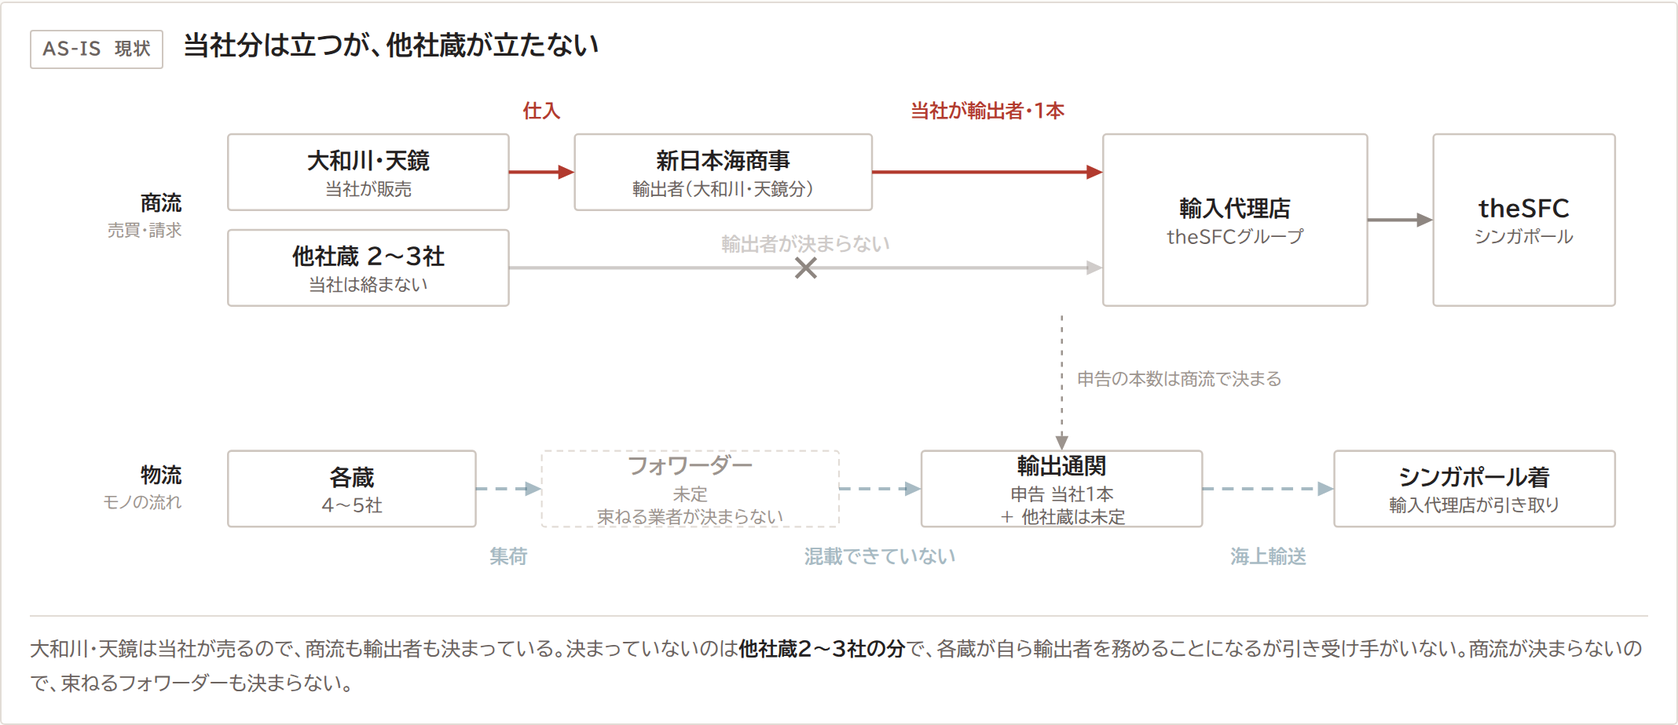
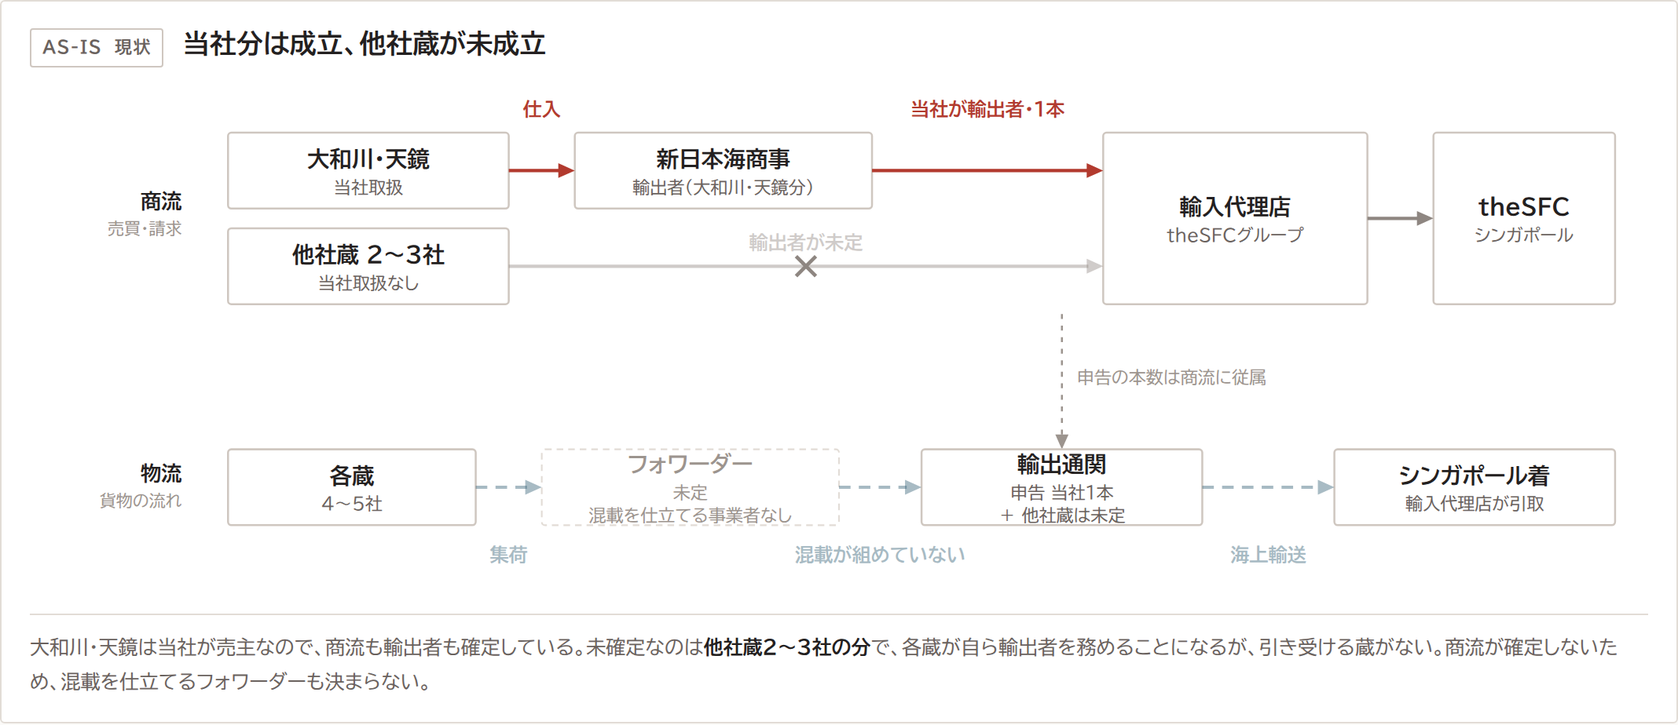
語彙を実務語に修正（束ねる→集約・混載を仕立てる、立つ→成立、入る→介在、決まっていない→未確定 ほか）

diff --git a/_inbox/20260901_DOC_酒類輸出_商流物流フロー.html b/_inbox/20260901_DOC_酒類輸出_商流物流フロー.html
@@ -77,30 +77,30 @@ figcaption b{color:var(--ink);font-weight:700}
   </header>
 
   <div class="legend">
-    <span class="li"><svg class="sw" width="34" height="12" aria-hidden="true"><line x1="0" y1="6" x2="24" y2="6" stroke="var(--shu)" stroke-width="2"/><polygon points="34,6 24,1.5 24,10.5" fill="var(--shu)"/></svg><b>商流：当社が入る</b></span>
-    <span class="li"><svg class="sw" width="34" height="12" aria-hidden="true"><line x1="0" y1="6" x2="24" y2="6" stroke="var(--gry)" stroke-width="2"/><polygon points="34,6 24,1.5 24,10.5" fill="var(--gry)"/></svg><b>商流：当社が入らない</b></span>
+    <span class="li"><svg class="sw" width="34" height="12" aria-hidden="true"><line x1="0" y1="6" x2="24" y2="6" stroke="var(--shu)" stroke-width="2"/><polygon points="34,6 24,1.5 24,10.5" fill="var(--shu)"/></svg><b>商流：当社が介在</b></span>
+    <span class="li"><svg class="sw" width="34" height="12" aria-hidden="true"><line x1="0" y1="6" x2="24" y2="6" stroke="var(--gry)" stroke-width="2"/><polygon points="34,6 24,1.5 24,10.5" fill="var(--gry)"/></svg><b>商流：当社が介在しない</b></span>
     <span class="li"><svg class="sw" width="34" height="12" aria-hidden="true"><line x1="0" y1="6" x2="24" y2="6" stroke="var(--aoi)" stroke-width="2" stroke-dasharray="6 4"/><polygon points="34,6 24,1.5 24,10.5" fill="var(--aoi)"/></svg><b>物流</b></span>
-    <span class="li"><svg class="sw" width="24" height="14" aria-hidden="true"><rect x="1" y="1" width="22" height="12" fill="var(--surface)" stroke="var(--rule)" stroke-dasharray="4 3"/></svg>薄い枠と薄い矢印＝まだ決まっていない</span>
-    <span class="li"><svg class="sw" width="24" height="14" aria-hidden="true"><rect x="1" y="1" width="22" height="12" fill="var(--ink)"/></svg>塗り＝その案で変わるところ</span>
+    <span class="li"><svg class="sw" width="24" height="14" aria-hidden="true"><rect x="1" y="1" width="22" height="12" fill="var(--surface)" stroke="var(--rule)" stroke-dasharray="4 3"/></svg>淡色の枠と矢印＝未確定</span>
+    <span class="li"><svg class="sw" width="24" height="14" aria-hidden="true"><rect x="1" y="1" width="22" height="12" fill="var(--ink)"/></svg>塗り＝その案で変わる箇所</span>
   </div>
 
   <section>
     <div class="sh">
-      <h2>読みA　shipper ＝ 荷主（輸出者）</h2>
-      <p>先方が求めているのは「4〜5蔵を束ねて自ら売り、輸出者になる会社」という読み</p>
+      <h2>解釈A　shipper ＝ 荷主（輸出者）</h2>
+      <p>先方が求めているのは「4〜5蔵の商流を集約し、自ら売主・輸出者となる事業者」という解釈</p>
     </div>
     <figure class="fig">
-    <div class="fh"><span class="tag">AS-IS　現状</span><h3>当社分は立つが、他社蔵が立たない</h3></div>
-    <div class="svgwrap"><svg viewBox="0 0 980 312" role="img" aria-label="商流は当社経由の1本だけが成立し、他社蔵からの商流は輸出者が決まらず未成立。物流も未確定">
+    <div class="fh"><span class="tag">AS-IS　現状</span><h3>当社分は成立、他社蔵が未成立</h3></div>
+    <div class="svgwrap"><svg viewBox="0 0 980 312" role="img" aria-label="商流は当社経由の1本のみ成立し、他社蔵からの商流は輸出者が未定で未成立。物流も未確定">
       <text x="92" y="76" text-anchor="end" class="lane">商流</text><text x="92" y="92" text-anchor="end" class="lane2">売買・請求</text>
-      <text x="92" y="241" text-anchor="end" class="lane">物流</text><text x="92" y="257" text-anchor="end" class="lane2">モノの流れ</text>
-      <line x1="625" y1="140" x2="625" y2="216" stroke="var(--ink-3)" stroke-width="1.2" stroke-dasharray="3 4"/><polygon points="625,222 621,213 629,213" fill="var(--ink-3)"/><text x="634" y="182" class="tie" fill="var(--ink-3)">申告の本数は商流で決まる</text>
+      <text x="92" y="241" text-anchor="end" class="lane">物流</text><text x="92" y="257" text-anchor="end" class="lane2">貨物の流れ</text>
+      <line x1="625" y1="140" x2="625" y2="216" stroke="var(--ink-3)" stroke-width="1.2" stroke-dasharray="3 4"/><polygon points="625,222 621,213 629,213" fill="var(--ink-3)"/><text x="634" y="182" class="tie" fill="var(--ink-3)">申告の本数は商流に従属</text>
       <rect x="120" y="30" width="170" height="46" rx="2" fill="var(--surface)" stroke="var(--rule-2)" stroke-width="1.2"/>
       <text x="205.0" y="51" text-anchor="middle" class="nt" fill="var(--ink)">大和川・天鏡</text>
-      <text x="205.0" y="67" text-anchor="middle" class="ns" fill="var(--ink-2)">当社が販売</text>
+      <text x="205.0" y="67" text-anchor="middle" class="ns" fill="var(--ink-2)">当社取扱</text>
       <rect x="120" y="88" width="170" height="46" rx="2" fill="var(--surface)" stroke="var(--rule-2)" stroke-width="1.2"/>
       <text x="205.0" y="109" text-anchor="middle" class="nt" fill="var(--ink)">他社蔵 2〜3社</text>
-      <text x="205.0" y="125" text-anchor="middle" class="ns" fill="var(--ink-2)">当社は絡まない</text>
+      <text x="205.0" y="125" text-anchor="middle" class="ns" fill="var(--ink-2)">当社取扱なし</text>
       <rect x="330" y="30" width="180" height="46" rx="2" fill="var(--surface)" stroke="var(--rule-2)" stroke-width="1.2"/>
       <text x="420.0" y="51" text-anchor="middle" class="nt" fill="var(--ink)">新日本海商事</text>
       <text x="420.0" y="67" text-anchor="middle" class="ns" fill="var(--ink-2)">輸出者（大和川・天鏡分）</text>
@@ -119,7 +119,7 @@ figcaption b{color:var(--ink);font-weight:700}
       <line x1="290" y1="111" x2="641" y2="111" stroke="var(--gry)" stroke-width="2" opacity="0.42"/>
       <polygon points="650,111 640,106.5 640,115.5" fill="var(--gry)" opacity="0.42"/>
       <g stroke="var(--gry)" stroke-width="2.2"><line x1="464.0" y1="105" x2="476.0" y2="117"/><line x1="464.0" y1="117" x2="476.0" y2="105"/></g>
-      <text x="470.0" y="101" text-anchor="middle" class="al" fill="var(--gry)" opacity="0.42">輸出者が決まらない</text>
+      <text x="470.0" y="101" text-anchor="middle" class="al" fill="var(--gry)" opacity="0.42">輸出者が未定</text>
       <line x1="810" y1="82" x2="841" y2="82" stroke="var(--gry)" stroke-width="2"/>
       <polygon points="850,82 840,77.5 840,86.5" fill="var(--gry)"/>
       <rect x="120" y="222" width="150" height="46" rx="2" fill="var(--surface)" stroke="var(--rule-2)" stroke-width="1.2"/>
@@ -128,38 +128,38 @@ figcaption b{color:var(--ink);font-weight:700}
       <rect x="310" y="222" width="180" height="46" rx="2" fill="var(--surface)" stroke="var(--rule)" stroke-width="1" stroke-dasharray="4 3"/>
       <text x="400.0" y="236" text-anchor="middle" class="nt" fill="var(--ink-3)">フォワーダー</text>
       <text x="400.0" y="252" text-anchor="middle" class="ns" fill="var(--ink-3)">未定</text>
-      <text x="400.0" y="266" text-anchor="middle" class="ns" fill="var(--ink-3)">束ねる業者が決まらない</text>
+      <text x="400.0" y="266" text-anchor="middle" class="ns" fill="var(--ink-3)">混載を仕立てる事業者なし</text>
       <rect x="540" y="222" width="170" height="46" rx="2" fill="var(--surface)" stroke="var(--rule-2)" stroke-width="1.2"/>
       <text x="625.0" y="236" text-anchor="middle" class="nt" fill="var(--ink)">輸出通関</text>
       <text x="625.0" y="252" text-anchor="middle" class="ns" fill="var(--ink-2)">申告 当社1本</text>
       <text x="625.0" y="266" text-anchor="middle" class="ns" fill="var(--ink-2)">＋ 他社蔵は未定</text>
       <rect x="790" y="222" width="170" height="46" rx="2" fill="var(--surface)" stroke="var(--rule-2)" stroke-width="1.2"/>
       <text x="875.0" y="243" text-anchor="middle" class="nt" fill="var(--ink)">シンガポール着</text>
-      <text x="875.0" y="259" text-anchor="middle" class="ns" fill="var(--ink-2)">輸入代理店が引き取り</text>
+      <text x="875.0" y="259" text-anchor="middle" class="ns" fill="var(--ink-2)">輸入代理店が引取</text>
       <line x1="270" y1="245" x2="301" y2="245" stroke="var(--aoi)" stroke-width="2" stroke-dasharray="7 5" opacity="0.42"/>
       <polygon points="310,245 300,240.5 300,249.5" fill="var(--aoi)" opacity="0.42"/>
       <text x="290.0" y="290" text-anchor="middle" class="al" fill="var(--aoi)" opacity="0.42">集荷</text>
       <line x1="490" y1="245" x2="531" y2="245" stroke="var(--aoi)" stroke-width="2" stroke-dasharray="7 5" opacity="0.42"/>
       <polygon points="540,245 530,240.5 530,249.5" fill="var(--aoi)" opacity="0.42"/>
-      <text x="515.0" y="290" text-anchor="middle" class="al" fill="var(--aoi)" opacity="0.42">混載できていない</text>
+      <text x="515.0" y="290" text-anchor="middle" class="al" fill="var(--aoi)" opacity="0.42">混載が組めていない</text>
       <line x1="710" y1="245" x2="781" y2="245" stroke="var(--aoi)" stroke-width="2" stroke-dasharray="7 5" opacity="0.42"/>
       <polygon points="790,245 780,240.5 780,249.5" fill="var(--aoi)" opacity="0.42"/>
       <text x="750.0" y="290" text-anchor="middle" class="al" fill="var(--aoi)" opacity="0.42">海上輸送</text>
     </svg></div>
-    <figcaption>大和川・天鏡は当社が売るので、商流も輸出者も決まっている。決まっていないのは<b>他社蔵2〜3社の分</b>で、各蔵が自ら輸出者を務めることになるが引き受け手がいない。商流が決まらないので、束ねるフォワーダーも決まらない。</figcaption>
+    <figcaption>大和川・天鏡は当社が売主なので、商流も輸出者も確定している。未確定なのは<b>他社蔵2〜3社の分</b>で、各蔵が自ら輸出者を務めることになるが、引き受ける蔵がない。商流が確定しないため、混載を仕立てるフォワーダーも決まらない。</figcaption>
   </figure>
     <figure class="fig">
-    <div class="fh"><span class="tag">TO-BE　読みAへの答え</span><h3>当社が4〜5蔵すべてを束ねる</h3></div>
-    <div class="svgwrap"><svg viewBox="0 0 980 312" role="img" aria-label="全ての蔵が新日本海商事を経由し、商流1本・輸出申告1本にまとまる">
+    <div class="fh"><span class="tag">TO-BE　解釈Aへの対応</span><h3>当社が4〜5蔵の商流を集約する</h3></div>
+    <div class="svgwrap"><svg viewBox="0 0 980 312" role="img" aria-label="全ての蔵が新日本海商事を経由し、商流1本・輸出申告1本に集約される">
       <text x="92" y="76" text-anchor="end" class="lane">商流</text><text x="92" y="92" text-anchor="end" class="lane2">売買・請求</text>
-      <text x="92" y="241" text-anchor="end" class="lane">物流</text><text x="92" y="257" text-anchor="end" class="lane2">モノの流れ</text>
-      <line x1="625" y1="140" x2="625" y2="216" stroke="var(--ink-3)" stroke-width="1.2" stroke-dasharray="3 4"/><polygon points="625,222 621,213 629,213" fill="var(--ink-3)"/><text x="634" y="182" class="tie" fill="var(--ink-3)">申告の本数は商流で決まる</text>
+      <text x="92" y="241" text-anchor="end" class="lane">物流</text><text x="92" y="257" text-anchor="end" class="lane2">貨物の流れ</text>
+      <line x1="625" y1="140" x2="625" y2="216" stroke="var(--ink-3)" stroke-width="1.2" stroke-dasharray="3 4"/><polygon points="625,222 621,213 629,213" fill="var(--ink-3)"/><text x="634" y="182" class="tie" fill="var(--ink-3)">申告の本数は商流に従属</text>
       <rect x="120" y="30" width="170" height="46" rx="2" fill="var(--surface)" stroke="var(--rule-2)" stroke-width="1.2"/>
       <text x="205.0" y="51" text-anchor="middle" class="nt" fill="var(--ink)">大和川・天鏡</text>
-      <text x="205.0" y="67" text-anchor="middle" class="ns" fill="var(--ink-2)">当社が販売</text>
+      <text x="205.0" y="67" text-anchor="middle" class="ns" fill="var(--ink-2)">当社取扱</text>
       <rect x="120" y="88" width="170" height="46" rx="2" fill="var(--surface)" stroke="var(--rule-2)" stroke-width="1.2"/>
       <text x="205.0" y="109" text-anchor="middle" class="nt" fill="var(--ink)">他社蔵 2〜3社</text>
-      <text x="205.0" y="125" text-anchor="middle" class="ns" fill="var(--ink-2)">当社が買い取る</text>
+      <text x="205.0" y="125" text-anchor="middle" class="ns" fill="var(--ink-2)">当社が仕入れる</text>
       <rect x="330" y="30" width="180" height="104" rx="2" fill="var(--ink)" stroke="var(--ink)" stroke-width="1"/>
       <text x="420.0" y="73" text-anchor="middle" class="nt" fill="var(--paper)">新日本海商事</text>
       <text x="420.0" y="89" text-anchor="middle" class="ns" fill="var(--paper-2)">輸出者・売主</text>
@@ -178,7 +178,7 @@ figcaption b{color:var(--ink);font-weight:700}
       <text x="310.0" y="101" text-anchor="middle" class="al" fill="var(--shu)">仕入</text>
       <line x1="510" y1="82" x2="641" y2="82" stroke="var(--shu)" stroke-width="2"/>
       <polygon points="650,82 640,77.5 640,86.5" fill="var(--shu)"/>
-      <text x="580.0" y="72" text-anchor="middle" class="al" fill="var(--shu)">1本にまとまる</text>
+      <text x="580.0" y="72" text-anchor="middle" class="al" fill="var(--shu)">商流1本に集約</text>
       <line x1="810" y1="82" x2="841" y2="82" stroke="var(--gry)" stroke-width="2"/>
       <polygon points="850,82 840,77.5 840,86.5" fill="var(--gry)"/>
       <rect x="120" y="222" width="150" height="46" rx="2" fill="var(--surface)" stroke="var(--rule-2)" stroke-width="1.2"/>
@@ -193,7 +193,7 @@ figcaption b{color:var(--ink);font-weight:700}
       <text x="625.0" y="259" text-anchor="middle" class="ns" fill="var(--paper-2)">申告 1本</text>
       <rect x="790" y="222" width="170" height="46" rx="2" fill="var(--surface)" stroke="var(--rule-2)" stroke-width="1.2"/>
       <text x="875.0" y="243" text-anchor="middle" class="nt" fill="var(--ink)">シンガポール着</text>
-      <text x="875.0" y="259" text-anchor="middle" class="ns" fill="var(--ink-2)">輸入代理店が引き取り</text>
+      <text x="875.0" y="259" text-anchor="middle" class="ns" fill="var(--ink-2)">輸入代理店が引取</text>
       <line x1="270" y1="245" x2="301" y2="245" stroke="var(--aoi)" stroke-width="2" stroke-dasharray="7 5"/>
       <polygon points="310,245 300,240.5 300,249.5" fill="var(--aoi)"/>
       <text x="290.0" y="290" text-anchor="middle" class="al" fill="var(--aoi)">集荷</text>
@@ -204,27 +204,27 @@ figcaption b{color:var(--ink);font-weight:700}
       <polygon points="790,245 780,240.5 780,249.5" fill="var(--aoi)"/>
       <text x="750.0" y="290" text-anchor="middle" class="al" fill="var(--aoi)">海上輸送</text>
     </svg></div>
-    <figcaption>他社蔵の分も当社が仕入れて売る。<b>商流が1本になり、輸出申告も1本になる。</b>先方が求める「束ねる輸出者」を当社が務める形。当社は他社蔵の仕入口座と与信を持つことになる。</figcaption>
+    <figcaption>他社蔵の分も当社が仕入れて売る。<b>商流が1本に集約され、輸出申告も1本になる。</b>先方が求める「商流を集約する輸出者」を当社が務める形。当社は他社蔵との仕入口座の開設と与信を負う。</figcaption>
   </figure>
   </section>
 
   <section>
     <div class="sh">
-      <h2>読みB　shipper ＝ フォワーダー（物流手配者）</h2>
-      <p>先方が求めているのは「4〜5蔵から集荷して混載し、輸出通関を代行する物流会社」という読み</p>
+      <h2>解釈B　shipper ＝ フォワーダー（物流手配者）</h2>
+      <p>先方が求めているのは「4〜5蔵から集荷して混載を仕立て、輸出通関を代行する物流事業者」という解釈</p>
     </div>
     <figure class="fig">
-    <div class="fh"><span class="tag">AS-IS　現状</span><h3>商流は立つが、運賃が高い</h3></div>
-    <div class="svgwrap"><svg viewBox="0 0 980 312" role="img" aria-label="商流は当社経由と他社蔵直の2系統が成立。物流は高い1社しか選択肢がない">
+    <div class="fh"><span class="tag">AS-IS　現状</span><h3>商流は成立、運賃が高止まり</h3></div>
+    <div class="svgwrap"><svg viewBox="0 0 980 312" role="img" aria-label="商流は当社経由と他社蔵直の2系統が成立。物流は高値の1社しか選択肢がない">
       <text x="92" y="76" text-anchor="end" class="lane">商流</text><text x="92" y="92" text-anchor="end" class="lane2">売買・請求</text>
-      <text x="92" y="241" text-anchor="end" class="lane">物流</text><text x="92" y="257" text-anchor="end" class="lane2">モノの流れ</text>
-      <line x1="625" y1="140" x2="625" y2="216" stroke="var(--ink-3)" stroke-width="1.2" stroke-dasharray="3 4"/><polygon points="625,222 621,213 629,213" fill="var(--ink-3)"/><text x="634" y="182" class="tie" fill="var(--ink-3)">申告の本数は商流で決まる</text>
+      <text x="92" y="241" text-anchor="end" class="lane">物流</text><text x="92" y="257" text-anchor="end" class="lane2">貨物の流れ</text>
+      <line x1="625" y1="140" x2="625" y2="216" stroke="var(--ink-3)" stroke-width="1.2" stroke-dasharray="3 4"/><polygon points="625,222 621,213 629,213" fill="var(--ink-3)"/><text x="634" y="182" class="tie" fill="var(--ink-3)">申告の本数は商流に従属</text>
       <rect x="120" y="30" width="170" height="46" rx="2" fill="var(--surface)" stroke="var(--rule-2)" stroke-width="1.2"/>
       <text x="205.0" y="51" text-anchor="middle" class="nt" fill="var(--ink)">大和川・天鏡</text>
-      <text x="205.0" y="67" text-anchor="middle" class="ns" fill="var(--ink-2)">当社が販売</text>
+      <text x="205.0" y="67" text-anchor="middle" class="ns" fill="var(--ink-2)">当社取扱</text>
       <rect x="120" y="88" width="170" height="46" rx="2" fill="var(--surface)" stroke="var(--rule-2)" stroke-width="1.2"/>
       <text x="205.0" y="109" text-anchor="middle" class="nt" fill="var(--ink)">他社蔵 2〜3社</text>
-      <text x="205.0" y="125" text-anchor="middle" class="ns" fill="var(--ink-2)">当社は絡まない</text>
+      <text x="205.0" y="125" text-anchor="middle" class="ns" fill="var(--ink-2)">当社取扱なし</text>
       <rect x="330" y="30" width="180" height="46" rx="2" fill="var(--surface)" stroke="var(--rule-2)" stroke-width="1.2"/>
       <text x="420.0" y="51" text-anchor="middle" class="nt" fill="var(--ink)">新日本海商事</text>
       <text x="420.0" y="67" text-anchor="middle" class="ns" fill="var(--ink-2)">輸出者（大和川・天鏡分）</text>
@@ -251,38 +251,38 @@ figcaption b{color:var(--ink);font-weight:700}
       <rect x="310" y="222" width="180" height="46" rx="2" fill="var(--surface)" stroke="var(--rule-2)" stroke-width="1.2"/>
       <text x="400.0" y="236" text-anchor="middle" class="nt" fill="var(--ink)">フォワーダー</text>
       <text x="400.0" y="252" text-anchor="middle" class="ns" fill="var(--ink-2)">定温リーファー定期便</text>
-      <text x="400.0" y="266" text-anchor="middle" class="ns" fill="var(--ink-2)">1社のみ・高い</text>
+      <text x="400.0" y="266" text-anchor="middle" class="ns" fill="var(--ink-2)">1社のみ・運賃高</text>
       <rect x="540" y="222" width="170" height="46" rx="2" fill="var(--surface)" stroke="var(--rule-2)" stroke-width="1.2"/>
       <text x="625.0" y="236" text-anchor="middle" class="nt" fill="var(--ink)">輸出通関</text>
       <text x="625.0" y="252" text-anchor="middle" class="ns" fill="var(--ink-2)">申告 当社1本</text>
       <text x="625.0" y="266" text-anchor="middle" class="ns" fill="var(--ink-2)">＋ 各蔵2〜3本</text>
       <rect x="790" y="222" width="170" height="46" rx="2" fill="var(--surface)" stroke="var(--rule-2)" stroke-width="1.2"/>
       <text x="875.0" y="243" text-anchor="middle" class="nt" fill="var(--ink)">シンガポール着</text>
-      <text x="875.0" y="259" text-anchor="middle" class="ns" fill="var(--ink-2)">輸入代理店が引き取り</text>
+      <text x="875.0" y="259" text-anchor="middle" class="ns" fill="var(--ink-2)">輸入代理店が引取</text>
       <line x1="270" y1="245" x2="301" y2="245" stroke="var(--aoi)" stroke-width="2" stroke-dasharray="7 5"/>
       <polygon points="310,245 300,240.5 300,249.5" fill="var(--aoi)"/>
       <text x="290.0" y="290" text-anchor="middle" class="al" fill="var(--aoi)">集荷</text>
       <line x1="490" y1="245" x2="531" y2="245" stroke="var(--aoi)" stroke-width="2" stroke-dasharray="7 5"/>
       <polygon points="540,245 530,240.5 530,249.5" fill="var(--aoi)"/>
-      <text x="515.0" y="290" text-anchor="middle" class="al" fill="var(--aoi)">混載はできる</text>
+      <text x="515.0" y="290" text-anchor="middle" class="al" fill="var(--aoi)">混載は可能</text>
       <line x1="710" y1="245" x2="781" y2="245" stroke="var(--aoi)" stroke-width="2" stroke-dasharray="7 5"/>
       <polygon points="790,245 780,240.5 780,249.5" fill="var(--aoi)"/>
       <text x="750.0" y="290" text-anchor="middle" class="al" fill="var(--aoi)">海上輸送</text>
     </svg></div>
-    <figcaption>大和川・天鏡は当社経由、他社蔵はtheSFCへ直。<b>商流はどちらも成立しうる。</b>詰まっているのは物流で、手が挙がるのが定温リーファー定期便を持つ1社だけ。その見積が高い。</figcaption>
+    <figcaption>大和川・天鏡は当社経由、他社蔵はtheSFCへ直。<b>商流はいずれも成立しうる。</b>停滞しているのは物流で、応じる事業者が定温リーファー定期便を持つ1社のみ。提示された運賃が高い。</figcaption>
   </figure>
     <figure class="fig">
-    <div class="fh"><span class="tag">TO-BE　読みBへの答え</span><h3>物流だけ束ね直す</h3></div>
-    <div class="svgwrap"><svg viewBox="0 0 980 312" role="img" aria-label="商流はAS-ISと同じまま、フォワーダーだけが入れ替わる。輸出申告の本数は変わらない">
+    <div class="fh"><span class="tag">TO-BE　解釈Bへの対応</span><h3>物流のみ再編する</h3></div>
+    <div class="svgwrap"><svg viewBox="0 0 980 312" role="img" aria-label="商流はAS-ISと同一のまま、フォワーダーのみが交代する。輸出申告の本数は不変">
       <text x="92" y="76" text-anchor="end" class="lane">商流</text><text x="92" y="92" text-anchor="end" class="lane2">売買・請求</text>
-      <text x="92" y="241" text-anchor="end" class="lane">物流</text><text x="92" y="257" text-anchor="end" class="lane2">モノの流れ</text>
-      <line x1="625" y1="140" x2="625" y2="216" stroke="var(--ink-3)" stroke-width="1.2" stroke-dasharray="3 4"/><polygon points="625,222 621,213 629,213" fill="var(--ink-3)"/><text x="634" y="182" class="tie" fill="var(--ink-3)">申告の本数は商流で決まる</text>
+      <text x="92" y="241" text-anchor="end" class="lane">物流</text><text x="92" y="257" text-anchor="end" class="lane2">貨物の流れ</text>
+      <line x1="625" y1="140" x2="625" y2="216" stroke="var(--ink-3)" stroke-width="1.2" stroke-dasharray="3 4"/><polygon points="625,222 621,213 629,213" fill="var(--ink-3)"/><text x="634" y="182" class="tie" fill="var(--ink-3)">申告の本数は商流に従属</text>
       <rect x="120" y="30" width="170" height="46" rx="2" fill="var(--surface)" stroke="var(--rule-2)" stroke-width="1.2"/>
       <text x="205.0" y="51" text-anchor="middle" class="nt" fill="var(--ink)">大和川・天鏡</text>
-      <text x="205.0" y="67" text-anchor="middle" class="ns" fill="var(--ink-2)">当社が販売</text>
+      <text x="205.0" y="67" text-anchor="middle" class="ns" fill="var(--ink-2)">当社取扱</text>
       <rect x="120" y="88" width="170" height="46" rx="2" fill="var(--surface)" stroke="var(--rule-2)" stroke-width="1.2"/>
       <text x="205.0" y="109" text-anchor="middle" class="nt" fill="var(--ink)">他社蔵 2〜3社</text>
-      <text x="205.0" y="125" text-anchor="middle" class="ns" fill="var(--ink-2)">当社は絡まない</text>
+      <text x="205.0" y="125" text-anchor="middle" class="ns" fill="var(--ink-2)">当社取扱なし</text>
       <rect x="330" y="30" width="180" height="46" rx="2" fill="var(--surface)" stroke="var(--rule-2)" stroke-width="1.2"/>
       <text x="420.0" y="51" text-anchor="middle" class="nt" fill="var(--ink)">新日本海商事</text>
       <text x="420.0" y="67" text-anchor="middle" class="ns" fill="var(--ink-2)">輸出者（大和川・天鏡分）</text>
@@ -308,15 +308,15 @@ figcaption b{color:var(--ink);font-weight:700}
       <text x="195.0" y="259" text-anchor="middle" class="ns" fill="var(--ink-2)">4〜5社</text>
       <rect x="310" y="222" width="180" height="46" rx="2" fill="var(--ink)" stroke="var(--ink)" stroke-width="1"/>
       <text x="400.0" y="236" text-anchor="middle" class="nt" fill="var(--paper)">フォワーダー</text>
-      <text x="400.0" y="252" text-anchor="middle" class="ns" fill="var(--paper-2)">相見積で選び直す</text>
+      <text x="400.0" y="252" text-anchor="middle" class="ns" fill="var(--paper-2)">相見積で再選定</text>
       <text x="400.0" y="266" text-anchor="middle" class="ns" fill="var(--paper-2)">1コンテナ</text>
       <rect x="540" y="222" width="170" height="46" rx="2" fill="var(--surface)" stroke="var(--rule-2)" stroke-width="1.2"/>
       <text x="625.0" y="236" text-anchor="middle" class="nt" fill="var(--ink)">輸出通関</text>
       <text x="625.0" y="252" text-anchor="middle" class="ns" fill="var(--ink-2)">申告 当社1本</text>
-      <text x="625.0" y="266" text-anchor="middle" class="ns" fill="var(--ink-2)">＋ 各蔵2〜3本（変わらず）</text>
+      <text x="625.0" y="266" text-anchor="middle" class="ns" fill="var(--ink-2)">＋ 各蔵2〜3本（不変）</text>
       <rect x="790" y="222" width="170" height="46" rx="2" fill="var(--surface)" stroke="var(--rule-2)" stroke-width="1.2"/>
       <text x="875.0" y="243" text-anchor="middle" class="nt" fill="var(--ink)">シンガポール着</text>
-      <text x="875.0" y="259" text-anchor="middle" class="ns" fill="var(--ink-2)">輸入代理店が引き取り</text>
+      <text x="875.0" y="259" text-anchor="middle" class="ns" fill="var(--ink-2)">輸入代理店が引取</text>
       <line x1="270" y1="245" x2="301" y2="245" stroke="var(--aoi)" stroke-width="2" stroke-dasharray="7 5"/>
       <polygon points="310,245 300,240.5 300,249.5" fill="var(--aoi)"/>
       <text x="290.0" y="290" text-anchor="middle" class="al" fill="var(--aoi)">集荷</text>
@@ -327,9 +327,9 @@ figcaption b{color:var(--ink);font-weight:700}
       <polygon points="790,245 780,240.5 780,249.5" fill="var(--aoi)"/>
       <text x="750.0" y="290" text-anchor="middle" class="al" fill="var(--aoi)">海上輸送</text>
     </svg></div>
-    <figcaption>商流はAS-ISのまま動かさず、相見積で選び直したフォワーダーが集荷・混載する。運賃は下がるが、<b>商流が分かれている以上、輸出申告は当社1本＋各蔵2〜3本のまま残る。</b></figcaption>
+    <figcaption>商流はAS-ISのまま維持し、相見積で再選定したフォワーダーが集荷・混載を担う。運賃は下がるが、<b>商流が分かれている以上、輸出申告は当社1本＋各蔵2〜3本のまま残る。</b></figcaption>
   </figure>
   </section>
 
-  <p class="close"><b>2つの読みの違いは、当社が何を背負うか。</b>　読みAなら、当社が大和川・天鏡で既にやっていることを他社蔵まで広げる話になり、仕入口座と与信を新たに持つ。読みBなら当社が新たに背負うものはないが、蔵側の輸出者負担は残ったままになる。<b>どちらの読みかは「各蔵への商品代金を誰が払う想定か」を聞けば1問で確定する。</b></p>
+  <p class="close"><b>2つの解釈の差は、当社が何を負うかにある。</b>　解釈Aなら、当社が大和川・天鏡で既に担っている役割を他社蔵まで拡張することになり、仕入口座の開設と与信を新たに負う。解釈Bなら当社が新たに負うものはないが、蔵側の輸出者負担は残る。<b>どちらの解釈かは「各蔵への商品代金を誰が支払う想定か」の1問で確定する。</b></p>
 </div>

diff --git a/_inbox/20260901_CODE_酒類輸出_商流物流フロー生成.py b/_inbox/20260901_CODE_酒類輸出_商流物流フロー生成.py
@@ -54,14 +54,14 @@ def figure(sc):
     p.append(f'<text x="{GUT}" y="76" text-anchor="end" class="lane">商流</text>'
              f'<text x="{GUT}" y="92" text-anchor="end" class="lane2">売買・請求</text>')
     p.append(f'<text x="{GUT}" y="241" text-anchor="end" class="lane">物流</text>'
-             f'<text x="{GUT}" y="257" text-anchor="end" class="lane2">モノの流れ</text>')
+             f'<text x="{GUT}" y="257" text-anchor="end" class="lane2">貨物の流れ</text>')
     # tie: declaration count follows the commercial flow
     p.append('<line x1="625" y1="140" x2="625" y2="216" stroke="var(--ink-3)" stroke-width="1.2" stroke-dasharray="3 4"/>'
              '<polygon points="625,222 621,213 629,213" fill="var(--ink-3)"/>'
-             '<text x="634" y="182" class="tie" fill="var(--ink-3)">申告の本数は商流で決まる</text>')
+             '<text x="634" y="182" class="tie" fill="var(--ink-3)">申告の本数は商流に従属</text>')
     # commercial lane
     snj = S_SNJ_FULL if sc["snj_full"] else S_SNJ_HALF
-    p.append(box(S_K1, "大和川・天鏡", ["当社が販売"]))
+    p.append(box(S_K1, "大和川・天鏡", ["当社取扱"]))
     p.append(box(S_K2, "他社蔵 2〜3社", [sc["k2sub"]]))
     p.append(box(snj, "新日本海商事", sc["snj"], sc.get("snj_tone", "plain")))
     p.append(box(S_AG, "輸入代理店", ["theSFCグループ"]))
@@ -80,7 +80,7 @@ def figure(sc):
     p.append(box(B_KURA, "各蔵", ["4〜5社"]))
     p.append(box(B_FW, "フォワーダー", sc["fw"], sc.get("fw_tone", "plain")))
     p.append(box(B_CUS, "輸出通関", sc["cus"], sc.get("cus_tone", "plain")))
-    p.append(box(B_SFC, "シンガポール着", ["輸入代理店が引き取り"]))
+    p.append(box(B_SFC, "シンガポール着", ["輸入代理店が引取"]))
     f = sc.get("but_faint", False)
     p.append(arrow(270, 310, 245, AOI, dash=True, faint=f, label="集荷", ly=290))
     p.append(arrow(490, 540, 245, AOI, dash=True, faint=f, label=sc["but_label"], ly=290))
@@ -88,25 +88,25 @@ def figure(sc):
     return "\n      ".join(p)
 
 SC = {
-"a_asis": dict(snj_full=False, k2sub="当社は絡まない",
+"a_asis": dict(snj_full=False, k2sub="当社取扱なし",
   snj=["輸出者（大和川・天鏡分）"], shu_label="当社が輸出者・1本",
-  gry_label="輸出者が決まらない", gry_faint=True, gry_cross=True,
-  fw=["未定", "束ねる業者が決まらない"], fw_tone="faint",
-  cus=["申告 当社1本", "＋ 他社蔵は未定"], but_label="混載できていない", but_faint=True),
-"a_tobe": dict(snj_full=True, k2sub="当社が買い取る",
-  snj=["輸出者・売主", "4〜5蔵すべて"], snj_tone="solid", shu_label="1本にまとまる",
+  gry_label="輸出者が未定", gry_faint=True, gry_cross=True,
+  fw=["未定", "混載を仕立てる事業者なし"], fw_tone="faint",
+  cus=["申告 当社1本", "＋ 他社蔵は未定"], but_label="混載が組めていない", but_faint=True),
+"a_tobe": dict(snj_full=True, k2sub="当社が仕入れる",
+  snj=["輸出者・売主", "4〜5蔵すべて"], snj_tone="solid", shu_label="商流1本に集約",
   fw=["当社指定", "1コンテナ"], cus=["申告 1本"], cus_tone="solid",
   but_label="混載 1コンテナ"),
-"b_asis": dict(snj_full=False, k2sub="当社は絡まない",
+"b_asis": dict(snj_full=False, k2sub="当社取扱なし",
   snj=["輸出者（大和川・天鏡分）"], shu_label="当社が輸出者・1本",
   gry_label="他社蔵は直・2〜3本",
-  fw=["定温リーファー定期便", "1社のみ・高い"],
-  cus=["申告 当社1本", "＋ 各蔵2〜3本"], but_label="混載はできる"),
-"b_tobe": dict(snj_full=False, k2sub="当社は絡まない",
+  fw=["定温リーファー定期便", "1社のみ・運賃高"],
+  cus=["申告 当社1本", "＋ 各蔵2〜3本"], but_label="混載は可能"),
+"b_tobe": dict(snj_full=False, k2sub="当社取扱なし",
   snj=["輸出者（大和川・天鏡分）"], shu_label="当社が輸出者・1本",
   gry_label="他社蔵は直・2〜3本",
-  fw=["相見積で選び直す", "1コンテナ"], fw_tone="solid",
-  cus=["申告 当社1本", "＋ 各蔵2〜3本（変わらず）"], but_label="混載 1コンテナ"),
+  fw=["相見積で再選定", "1コンテナ"], fw_tone="solid",
+  cus=["申告 当社1本", "＋ 各蔵2〜3本（不変）"], but_label="混載 1コンテナ"),
 }
 
 def fig(key, tag, title, caption, aria):
@@ -197,40 +197,40 @@ figcaption b{{color:var(--ink);font-weight:700}}
   </header>
 
   <div class="legend">
-    <span class="li"><svg class="sw" width="34" height="12" aria-hidden="true"><line x1="0" y1="6" x2="24" y2="6" stroke="var(--shu)" stroke-width="2"/><polygon points="34,6 24,1.5 24,10.5" fill="var(--shu)"/></svg><b>商流：当社が入る</b></span>
-    <span class="li"><svg class="sw" width="34" height="12" aria-hidden="true"><line x1="0" y1="6" x2="24" y2="6" stroke="var(--gry)" stroke-width="2"/><polygon points="34,6 24,1.5 24,10.5" fill="var(--gry)"/></svg><b>商流：当社が入らない</b></span>
+    <span class="li"><svg class="sw" width="34" height="12" aria-hidden="true"><line x1="0" y1="6" x2="24" y2="6" stroke="var(--shu)" stroke-width="2"/><polygon points="34,6 24,1.5 24,10.5" fill="var(--shu)"/></svg><b>商流：当社が介在</b></span>
+    <span class="li"><svg class="sw" width="34" height="12" aria-hidden="true"><line x1="0" y1="6" x2="24" y2="6" stroke="var(--gry)" stroke-width="2"/><polygon points="34,6 24,1.5 24,10.5" fill="var(--gry)"/></svg><b>商流：当社が介在しない</b></span>
     <span class="li"><svg class="sw" width="34" height="12" aria-hidden="true"><line x1="0" y1="6" x2="24" y2="6" stroke="var(--aoi)" stroke-width="2" stroke-dasharray="6 4"/><polygon points="34,6 24,1.5 24,10.5" fill="var(--aoi)"/></svg><b>物流</b></span>
-    <span class="li"><svg class="sw" width="24" height="14" aria-hidden="true"><rect x="1" y="1" width="22" height="12" fill="var(--surface)" stroke="var(--rule)" stroke-dasharray="4 3"/></svg>薄い枠と薄い矢印＝まだ決まっていない</span>
-    <span class="li"><svg class="sw" width="24" height="14" aria-hidden="true"><rect x="1" y="1" width="22" height="12" fill="var(--ink)"/></svg>塗り＝その案で変わるところ</span>
+    <span class="li"><svg class="sw" width="24" height="14" aria-hidden="true"><rect x="1" y="1" width="22" height="12" fill="var(--surface)" stroke="var(--rule)" stroke-dasharray="4 3"/></svg>淡色の枠と矢印＝未確定</span>
+    <span class="li"><svg class="sw" width="24" height="14" aria-hidden="true"><rect x="1" y="1" width="22" height="12" fill="var(--ink)"/></svg>塗り＝その案で変わる箇所</span>
   </div>
 
   <section>
     <div class="sh">
-      <h2>読みA　shipper ＝ 荷主（輸出者）</h2>
-      <p>先方が求めているのは「4〜5蔵を束ねて自ら売り、輸出者になる会社」という読み</p>
+      <h2>解釈A　shipper ＝ 荷主（輸出者）</h2>
+      <p>先方が求めているのは「4〜5蔵の商流を集約し、自ら売主・輸出者となる事業者」という解釈</p>
     </div>
-    {fig("a_asis","AS-IS　現状","当社分は立つが、他社蔵が立たない",
-      "大和川・天鏡は当社が売るので、商流も輸出者も決まっている。決まっていないのは<b>他社蔵2〜3社の分</b>で、各蔵が自ら輸出者を務めることになるが引き受け手がいない。商流が決まらないので、束ねるフォワーダーも決まらない。",
-      "商流は当社経由の1本だけが成立し、他社蔵からの商流は輸出者が決まらず未成立。物流も未確定")}
-    {fig("a_tobe","TO-BE　読みAへの答え","当社が4〜5蔵すべてを束ねる",
-      "他社蔵の分も当社が仕入れて売る。<b>商流が1本になり、輸出申告も1本になる。</b>先方が求める「束ねる輸出者」を当社が務める形。当社は他社蔵の仕入口座と与信を持つことになる。",
-      "全ての蔵が新日本海商事を経由し、商流1本・輸出申告1本にまとまる")}
+    {fig("a_asis","AS-IS　現状","当社分は成立、他社蔵が未成立",
+      "大和川・天鏡は当社が売主なので、商流も輸出者も確定している。未確定なのは<b>他社蔵2〜3社の分</b>で、各蔵が自ら輸出者を務めることになるが、引き受ける蔵がない。商流が確定しないため、混載を仕立てるフォワーダーも決まらない。",
+      "商流は当社経由の1本のみ成立し、他社蔵からの商流は輸出者が未定で未成立。物流も未確定")}
+    {fig("a_tobe","TO-BE　解釈Aへの対応","当社が4〜5蔵の商流を集約する",
+      "他社蔵の分も当社が仕入れて売る。<b>商流が1本に集約され、輸出申告も1本になる。</b>先方が求める「商流を集約する輸出者」を当社が務める形。当社は他社蔵との仕入口座の開設と与信を負う。",
+      "全ての蔵が新日本海商事を経由し、商流1本・輸出申告1本に集約される")}
   </section>
 
   <section>
     <div class="sh">
-      <h2>読みB　shipper ＝ フォワーダー（物流手配者）</h2>
-      <p>先方が求めているのは「4〜5蔵から集荷して混載し、輸出通関を代行する物流会社」という読み</p>
+      <h2>解釈B　shipper ＝ フォワーダー（物流手配者）</h2>
+      <p>先方が求めているのは「4〜5蔵から集荷して混載を仕立て、輸出通関を代行する物流事業者」という解釈</p>
     </div>
-    {fig("b_asis","AS-IS　現状","商流は立つが、運賃が高い",
-      "大和川・天鏡は当社経由、他社蔵はtheSFCへ直。<b>商流はどちらも成立しうる。</b>詰まっているのは物流で、手が挙がるのが定温リーファー定期便を持つ1社だけ。その見積が高い。",
-      "商流は当社経由と他社蔵直の2系統が成立。物流は高い1社しか選択肢がない")}
-    {fig("b_tobe","TO-BE　読みBへの答え","物流だけ束ね直す",
-      "商流はAS-ISのまま動かさず、相見積で選び直したフォワーダーが集荷・混載する。運賃は下がるが、<b>商流が分かれている以上、輸出申告は当社1本＋各蔵2〜3本のまま残る。</b>",
-      "商流はAS-ISと同じまま、フォワーダーだけが入れ替わる。輸出申告の本数は変わらない")}
+    {fig("b_asis","AS-IS　現状","商流は成立、運賃が高止まり",
+      "大和川・天鏡は当社経由、他社蔵はtheSFCへ直。<b>商流はいずれも成立しうる。</b>停滞しているのは物流で、応じる事業者が定温リーファー定期便を持つ1社のみ。提示された運賃が高い。",
+      "商流は当社経由と他社蔵直の2系統が成立。物流は高値の1社しか選択肢がない")}
+    {fig("b_tobe","TO-BE　解釈Bへの対応","物流のみ再編する",
+      "商流はAS-ISのまま維持し、相見積で再選定したフォワーダーが集荷・混載を担う。運賃は下がるが、<b>商流が分かれている以上、輸出申告は当社1本＋各蔵2〜3本のまま残る。</b>",
+      "商流はAS-ISと同一のまま、フォワーダーのみが交代する。輸出申告の本数は不変")}
   </section>
 
-  <p class="close"><b>2つの読みの違いは、当社が何を背負うか。</b>　読みAなら、当社が大和川・天鏡で既にやっていることを他社蔵まで広げる話になり、仕入口座と与信を新たに持つ。読みBなら当社が新たに背負うものはないが、蔵側の輸出者負担は残ったままになる。<b>どちらの読みかは「各蔵への商品代金を誰が払う想定か」を聞けば1問で確定する。</b></p>
+  <p class="close"><b>2つの解釈の差は、当社が何を負うかにある。</b>　解釈Aなら、当社が大和川・天鏡で既に担っている役割を他社蔵まで拡張することになり、仕入口座の開設と与信を新たに負う。解釈Bなら当社が新たに負うものはないが、蔵側の輸出者負担は残る。<b>どちらの解釈かは「各蔵への商品代金を誰が支払う想定か」の1問で確定する。</b></p>
 </div>
 '''
 
